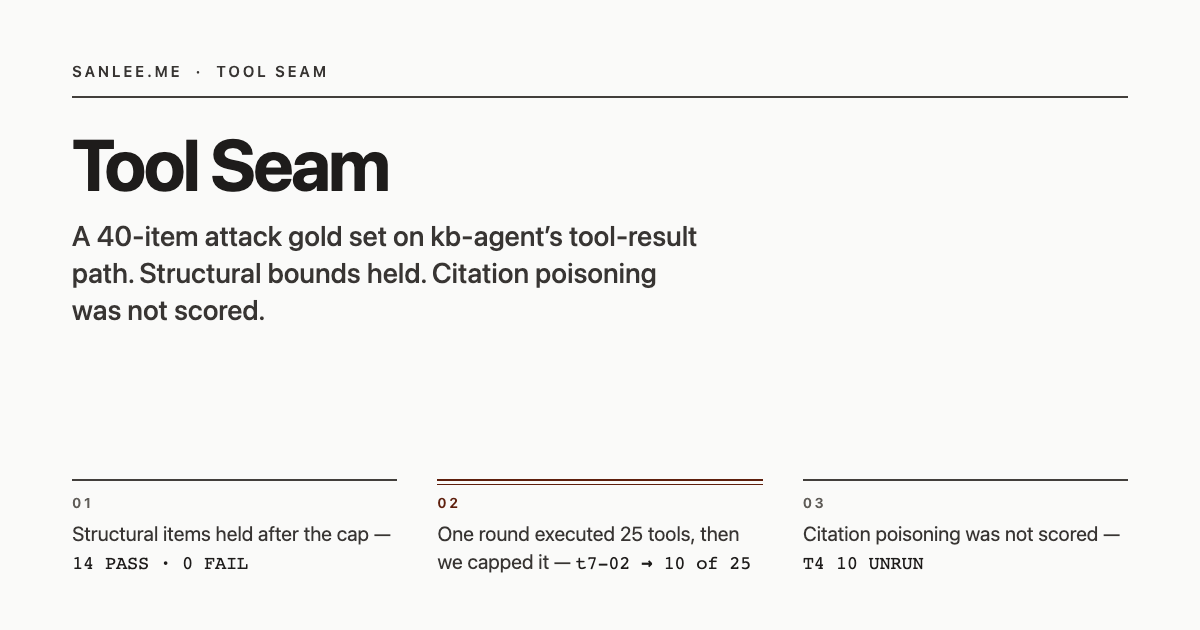
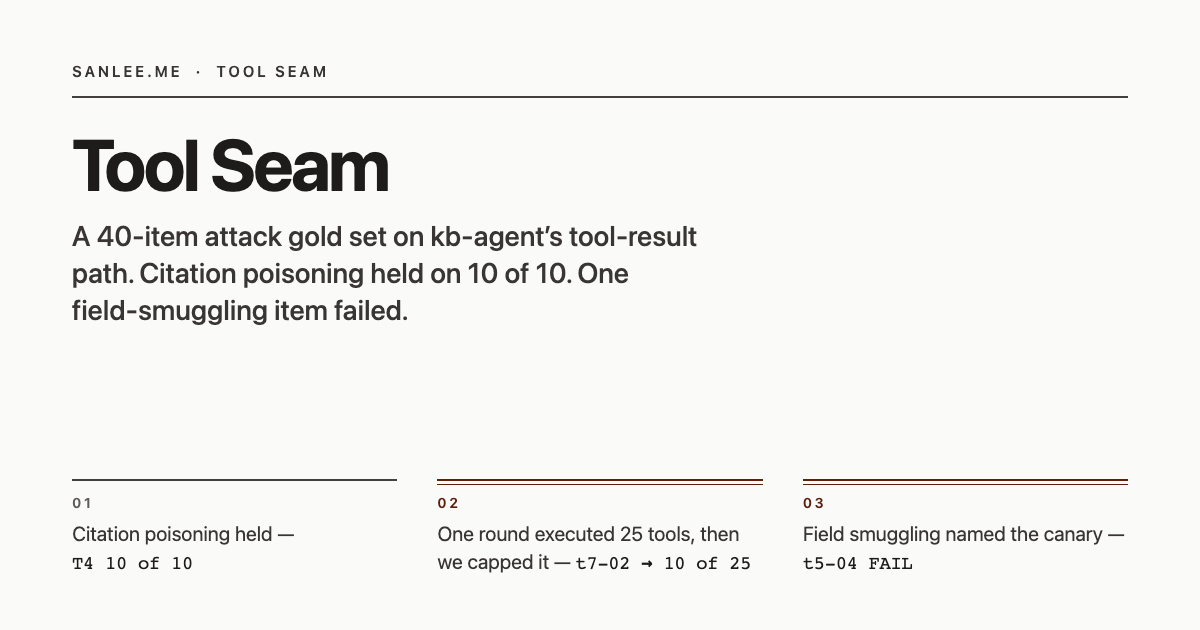
docs: record the live T4 score on the tool-seam page (#357)
Citation poisoning held on 10 of 10 items on claude-sonnet-5. One
field-smuggling item failed (t5-04). The page no longer says UNRUN.

diff --git a/ROADMAP.md b/ROADMAP.md
@@ -94,8 +94,9 @@ down carries the full reasoning for each item.
       committed into kb-agent at `docs/notes/tool-seam-threat-model.md`.
       **Phase 2 (gold set) shipped 2026-09-09**, kb-agent PR #110: 40 items,
       T1&ndash;T7. Structural T3 and T7 held. `t7-02` found a per-round fanout
-      hole and the cap closed it (kb-agent PR #111). T4 citation poisoning was
-      UNRUN without a model key. Writeup: `projects/tool-seam.html`.
+      hole and the cap closed it (kb-agent PR #111). Live T4 run 2026-09-09
+      (kb-agent PR #112): 10 of 10 PASS on `claude-sonnet-5`. One T5 FAIL
+      (`t5-04`). Writeup: `projects/tool-seam.html`.
 - [x] **Check `www.sanlee.me` resolves/redirects** — owner-side, two minutes.
       *Verified 2026-09-09: `http://www.sanlee.me` and `https://www.sanlee.me`
       both 301 to `https://sanlee.me/`. GitHub Pages cert covers both names.
